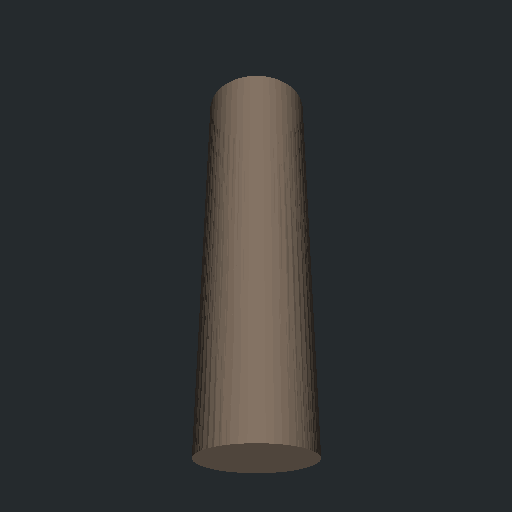
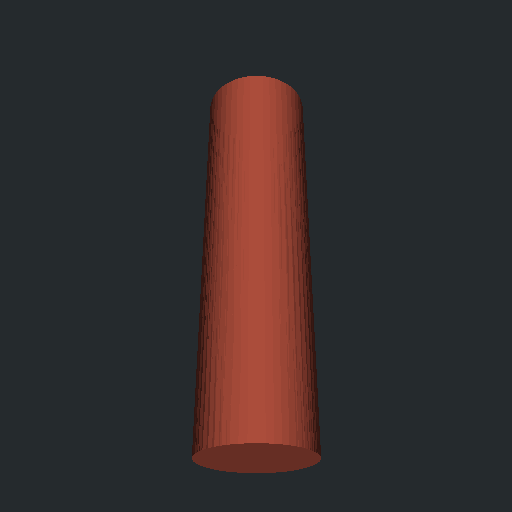
Match editor colors to the original homepage palette

Changed region(s): [[0.375, 0.125, 0.625, 0.875]]

diff --git a/web/tests/palette.test.ts b/web/tests/palette.test.ts
@@ -2,7 +2,7 @@ import { describe, expect, it } from "vitest";
 import { partColor } from "../lib/palette";
 import palette from "../lib/partPalette.json";
 
-describe("shared muted component palette", () => {
+describe("shared homepage component palette", () => {
   it("matches each original component to its preview palette slot", () => {
     palette.forEach((color, i) => expect(partColor(0, `p${i + 1}`)).toBe(color));
   });
@@ -11,11 +11,9 @@ describe("shared muted component palette", () => {
       expect(partColor(0, id)).toBe(partColor(5, id));
     }
   });
-  it("uses muted colors instead of bright or neon defaults", () => {
-    for (const color of palette) {
-      const rgb = color.slice(1).match(/../g)!.map(c => parseInt(c, 16));
-      expect(Math.max(...rgb)).toBeLessThan(190);
-      expect(Math.max(...rgb) - Math.min(...rgb)).toBeLessThan(80);
-    }
+  it("preserves the original homepage colors rather than the neon editor palette", () => {
+    expect(palette).toEqual([
+      "#c85a46", "#5aa0d2", "#d2be5a", "#78c882", "#b478c8", "#969696",
+    ]);
   });
 });
